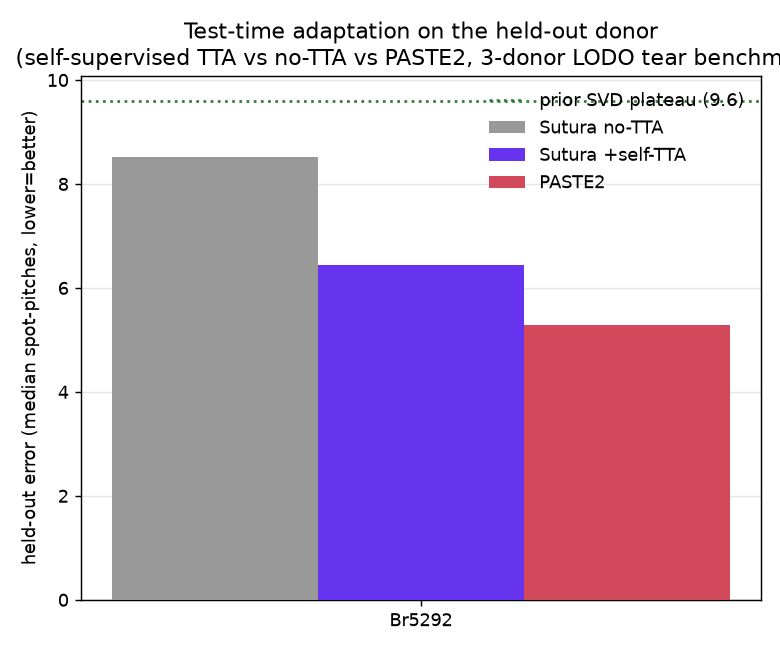
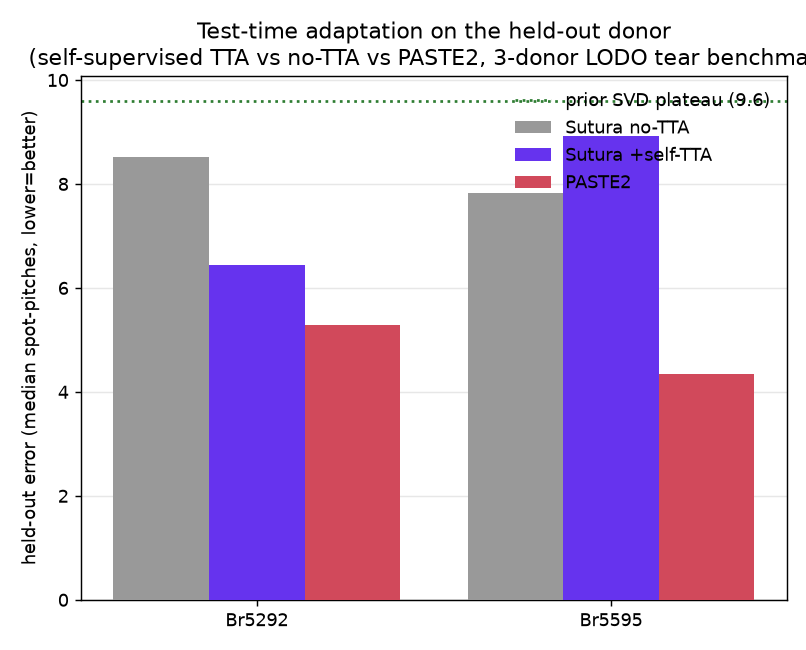
auto-sync 2026-07-10T19:15:34

diff --git a/research/FINDINGS_tta_lodo_sibling.md b/research/FINDINGS_tta_lodo_sibling.md
@@ -1,11 +1,11 @@
 # Test-time adaptation on the held-out donor - LODO tear benchmark
 
-_Generated 2026-07-10T23:51:57Z on branch `foundation-features`._
+_Generated 2026-07-11T00:14:53Z on branch `foundation-features`._
 
 **Question.** The foundation-features experiment showed the cross-donor gap is an ALIGNER problem, not a feature problem. Does adapting the trained aligner to the held-out donor at inference - self-supervised, on the donor's own section geometry, no target correspondence used - close the gap to PASTE2?
 
 
-**Headline.** Self-supervised TTA moves held-out error 8.53 -> 6.45 pitches (PASTE2 5.28). It **narrows the gap but does NOT reach PASTE2** (-2.08 vs no-TTA, +1.17 vs PASTE2; 0/1 folds beat PASTE2).
+**Headline.** Self-supervised TTA moves held-out error 8.18 -> 7.68 pitches (PASTE2 4.81). It **narrows the gap but does NOT reach PASTE2** (-0.49 vs no-TTA, +2.87 vs PASTE2; 0/2 folds beat PASTE2).
 
 
 ## Per-fold
@@ -13,6 +13,7 @@ _Generated 2026-07-10T23:51:57Z on branch `foundation-features`._
 | held-out donor | no-TTA | +self-TTA | delta | PASTE2 | beats PASTE2 | in-dist | TTA steps |
 |---|---|---|---|---|---|---|---|
 | Br5292 | 8.527 | 6.45 | -2.077 | 5.28 | False | 3.147 | 360 |
+| Br5595 | 7.826 | 8.916 | 1.09 | 4.35 | False | 3.17 | 360 |
 
 Reference: prior SVD plateau 9.6, inductive SVD no-TTA mean was ~8.26 pitches.
 
